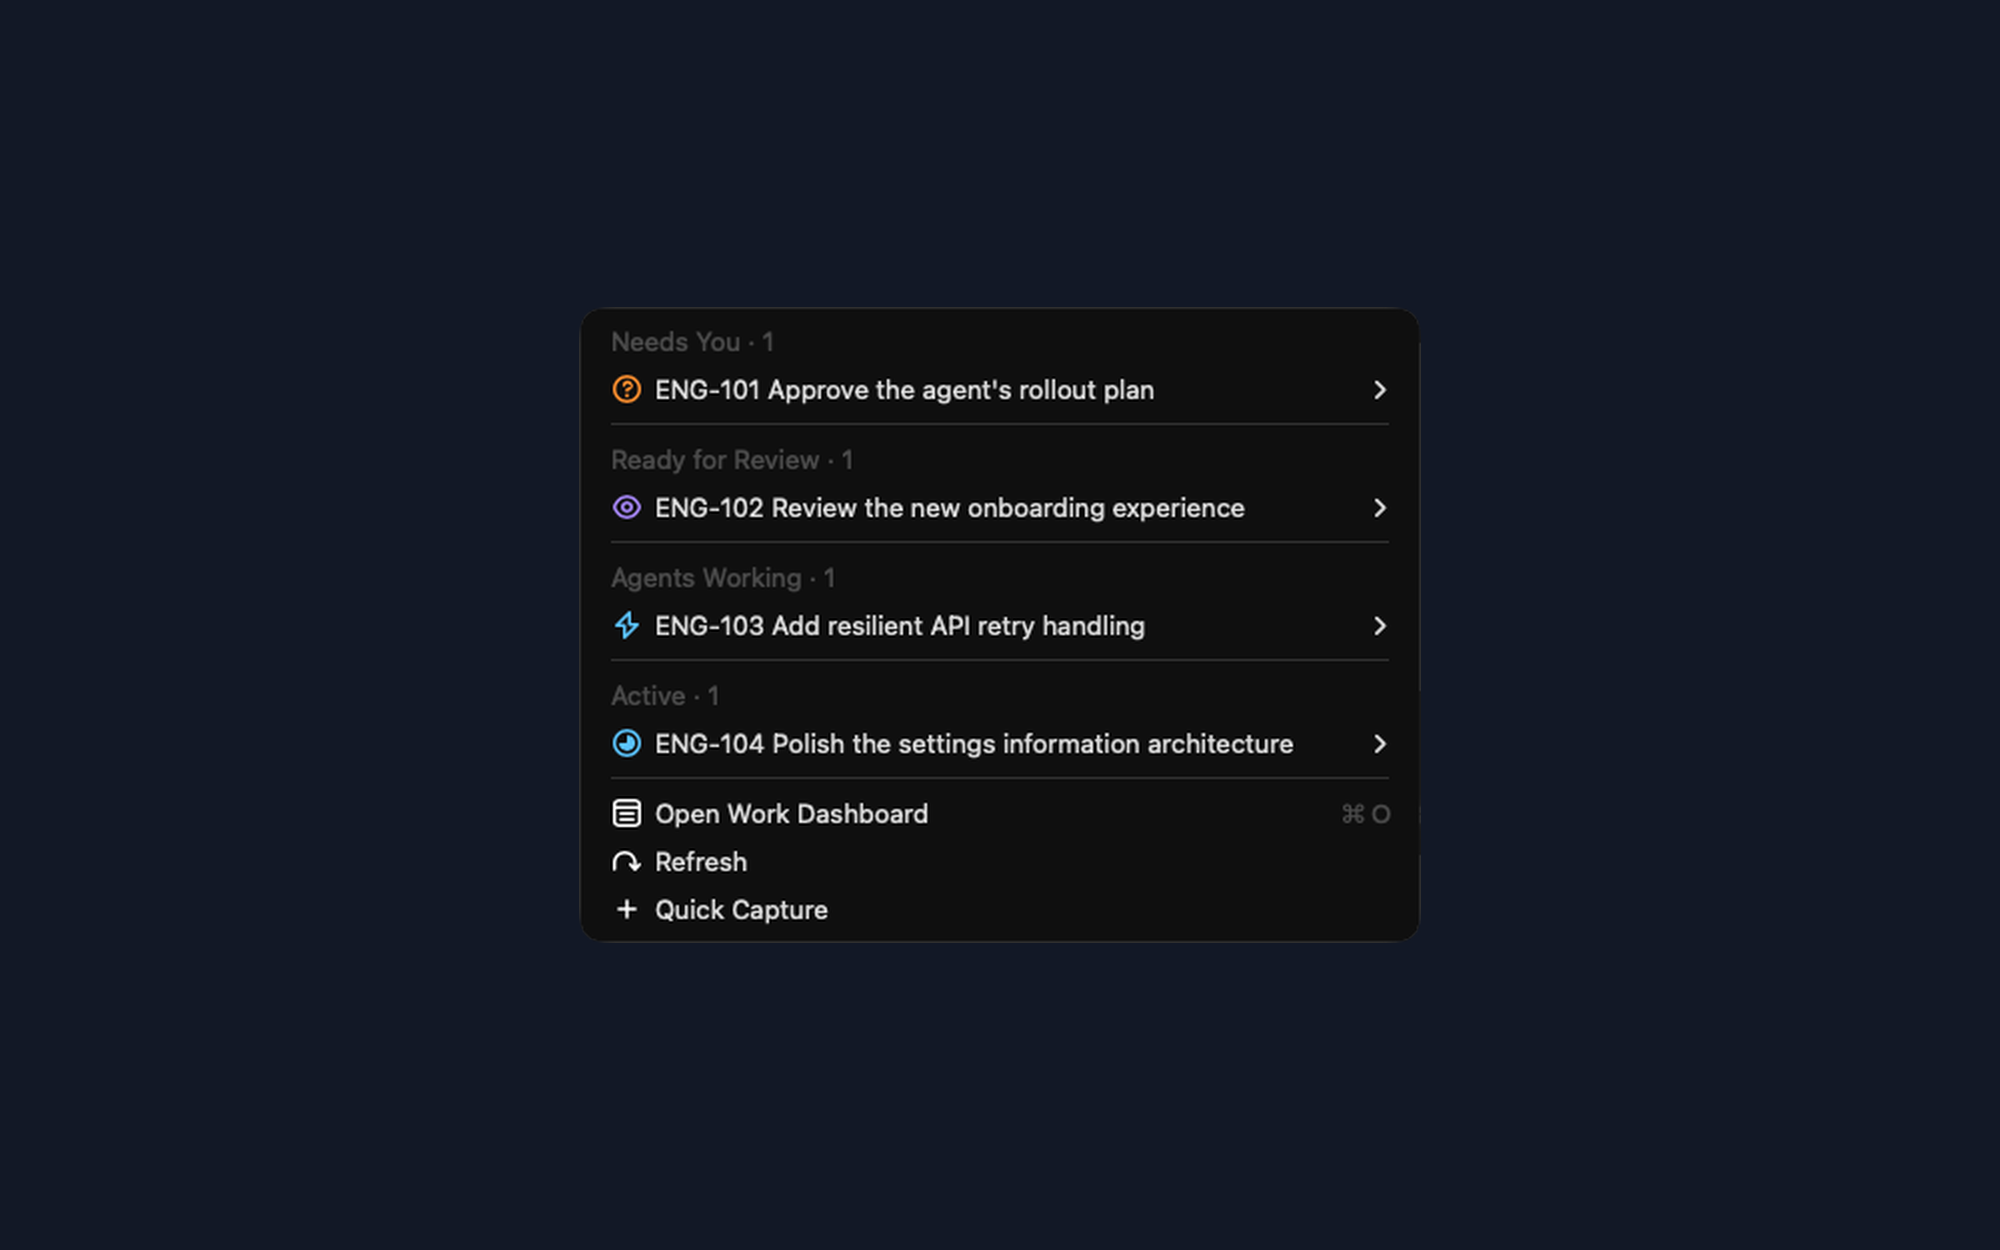
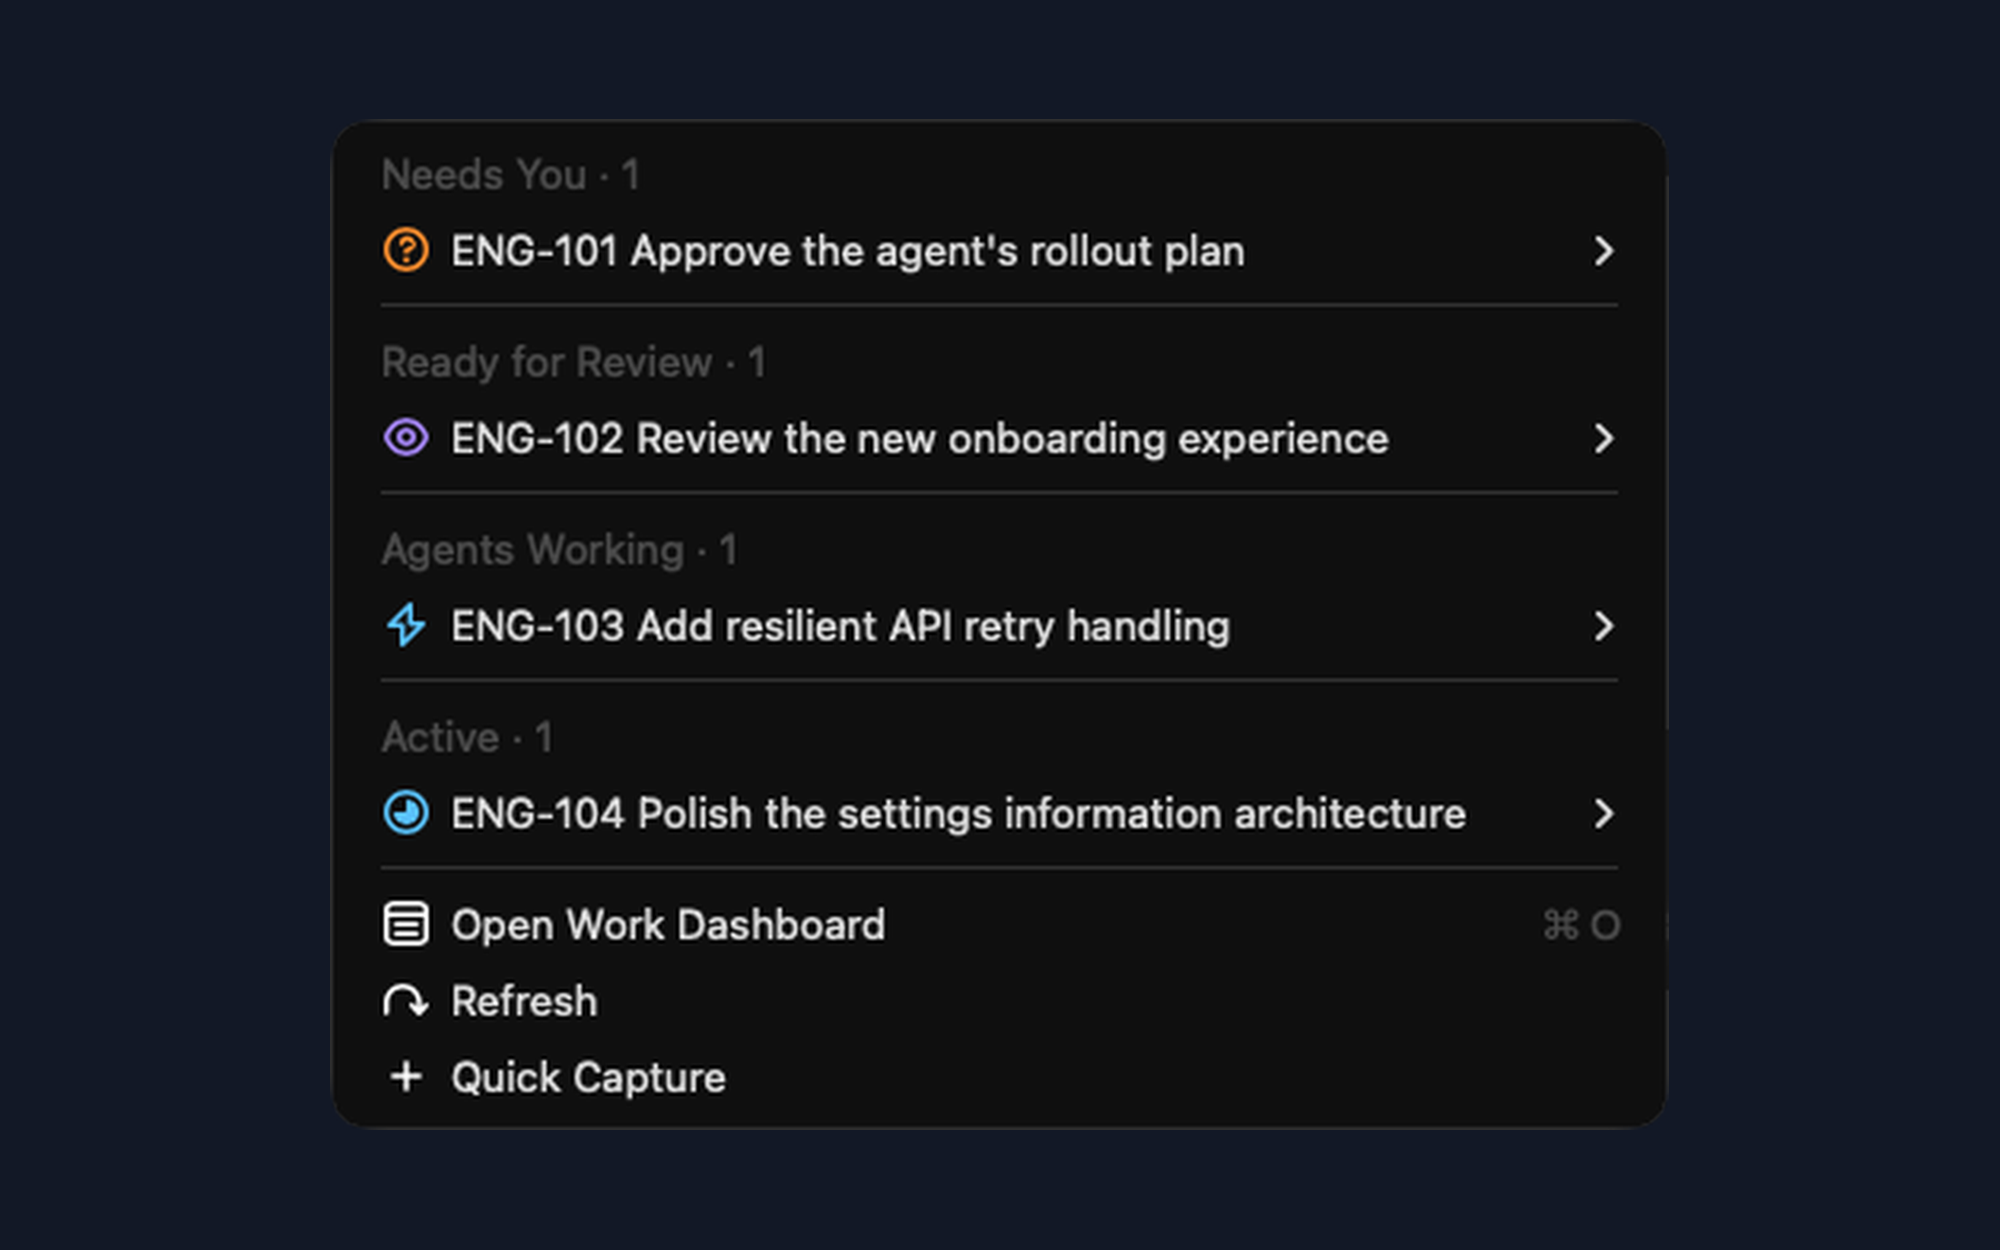
Frame the menu-bar screenshot to store padding; advance exhausted cursors; controlled team dropdown
The Linear Pulse capture sat with 30% padding on every side and failed
the store's metadata check; it is now framed at the store's limits.
loadDashboard re-fetched the last page of any exhausted connection on
every loop because its cursor was never advanced. Quick Capture's team
dropdown is controlled so it shows the preferred team once data loads,
and the unused LINEAR_COMMAND_CENTER_DEMO env switch is gone.

Claude-Session: https://claude.ai/code/session_018xdWrMp39uzTxCsbVE3Ny6

diff --git a/src/api.ts b/src/api.ts
@@ -126,7 +126,7 @@ export async function linearRequest<T>(query: string, variables: Record<string, 
 
 export async function loadDashboard(): Promise<DashboardResponse> {
   const preferences = getPreferenceValues<Preferences>();
-  if (preferences.demoMode || process.env.LINEAR_COMMAND_CENTER_DEMO === "1") return demoDashboard();
+  if (preferences.demoMode) return demoDashboard();
 
   const issues = new Map<string, Issue>();
   const delegatedIssues = new Map<string, { id: string }>();
@@ -156,9 +156,12 @@ export async function loadDashboard(): Promise<DashboardResponse> {
     const sessionsMore = data.agentSessions.pageInfo.hasNextPage;
     if (!issuesMore && !delegatedMore && !sessionsMore) break;
 
-    if (issuesMore) issuesAfter = data.viewer.assignedIssues.pageInfo.endCursor;
-    if (delegatedMore) delegatedAfter = data.viewer.delegatedIssues.pageInfo.endCursor;
-    if (sessionsMore) sessionsAfter = data.agentSessions.pageInfo.endCursor;
+    // Advance every cursor, including exhausted ones: a connection that has
+    // no next page returns nothing after its last cursor, instead of the same
+    // page again on every loop.
+    issuesAfter = data.viewer.assignedIssues.pageInfo.endCursor ?? issuesAfter;
+    delegatedAfter = data.viewer.delegatedIssues.pageInfo.endCursor ?? delegatedAfter;
+    sessionsAfter = data.agentSessions.pageInfo.endCursor ?? sessionsAfter;
   }
 
   return {

diff --git a/src/quick-capture.tsx b/src/quick-capture.tsx
@@ -80,12 +80,7 @@ function QuickCapture() {
       }
     >
       {buildError ? <Form.Description title="Linear could not load" text={buildError.message} /> : null}
-      <Form.Dropdown
-        id="teamId"
-        title="Team"
-        defaultValue={selectedTeam?.id || ""}
-        onChange={setSelectedTeamId}
-      >
+      <Form.Dropdown id="teamId" title="Team" value={selectedTeam?.id || ""} onChange={setSelectedTeamId}>
         {model?.teams.map((team) => (
           <Form.Dropdown.Item key={team.id} value={team.id} title={`${team.name} (${team.key})`} />
         ))}
